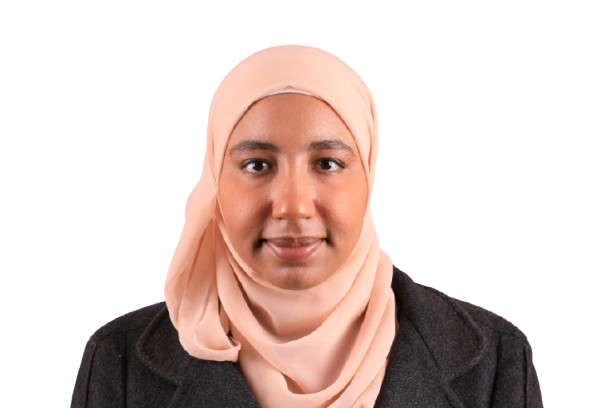
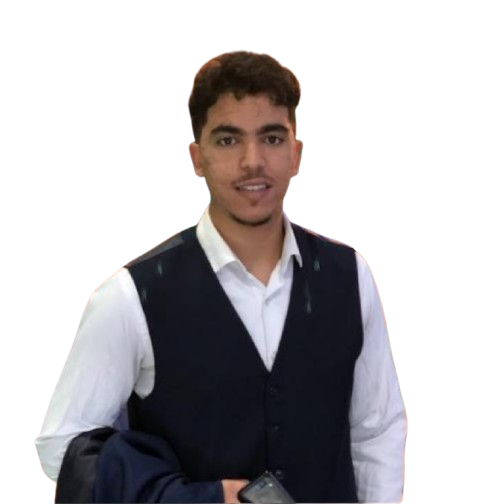
Add styling to hero image in Hero component

diff --git a/src/components/Hero.jsx b/src/components/Hero.jsx
@@ -18,7 +18,7 @@
                         </a>
                     </div>
                     <div className="hero-image">
-                        <img src="/my.png" alt="Aamir El Amiri " />
+                        <img src="/my.png" className='h-36 ml-16' alt="Aamir El Amiri " />
                     </div>
                 </div>
             </section>
